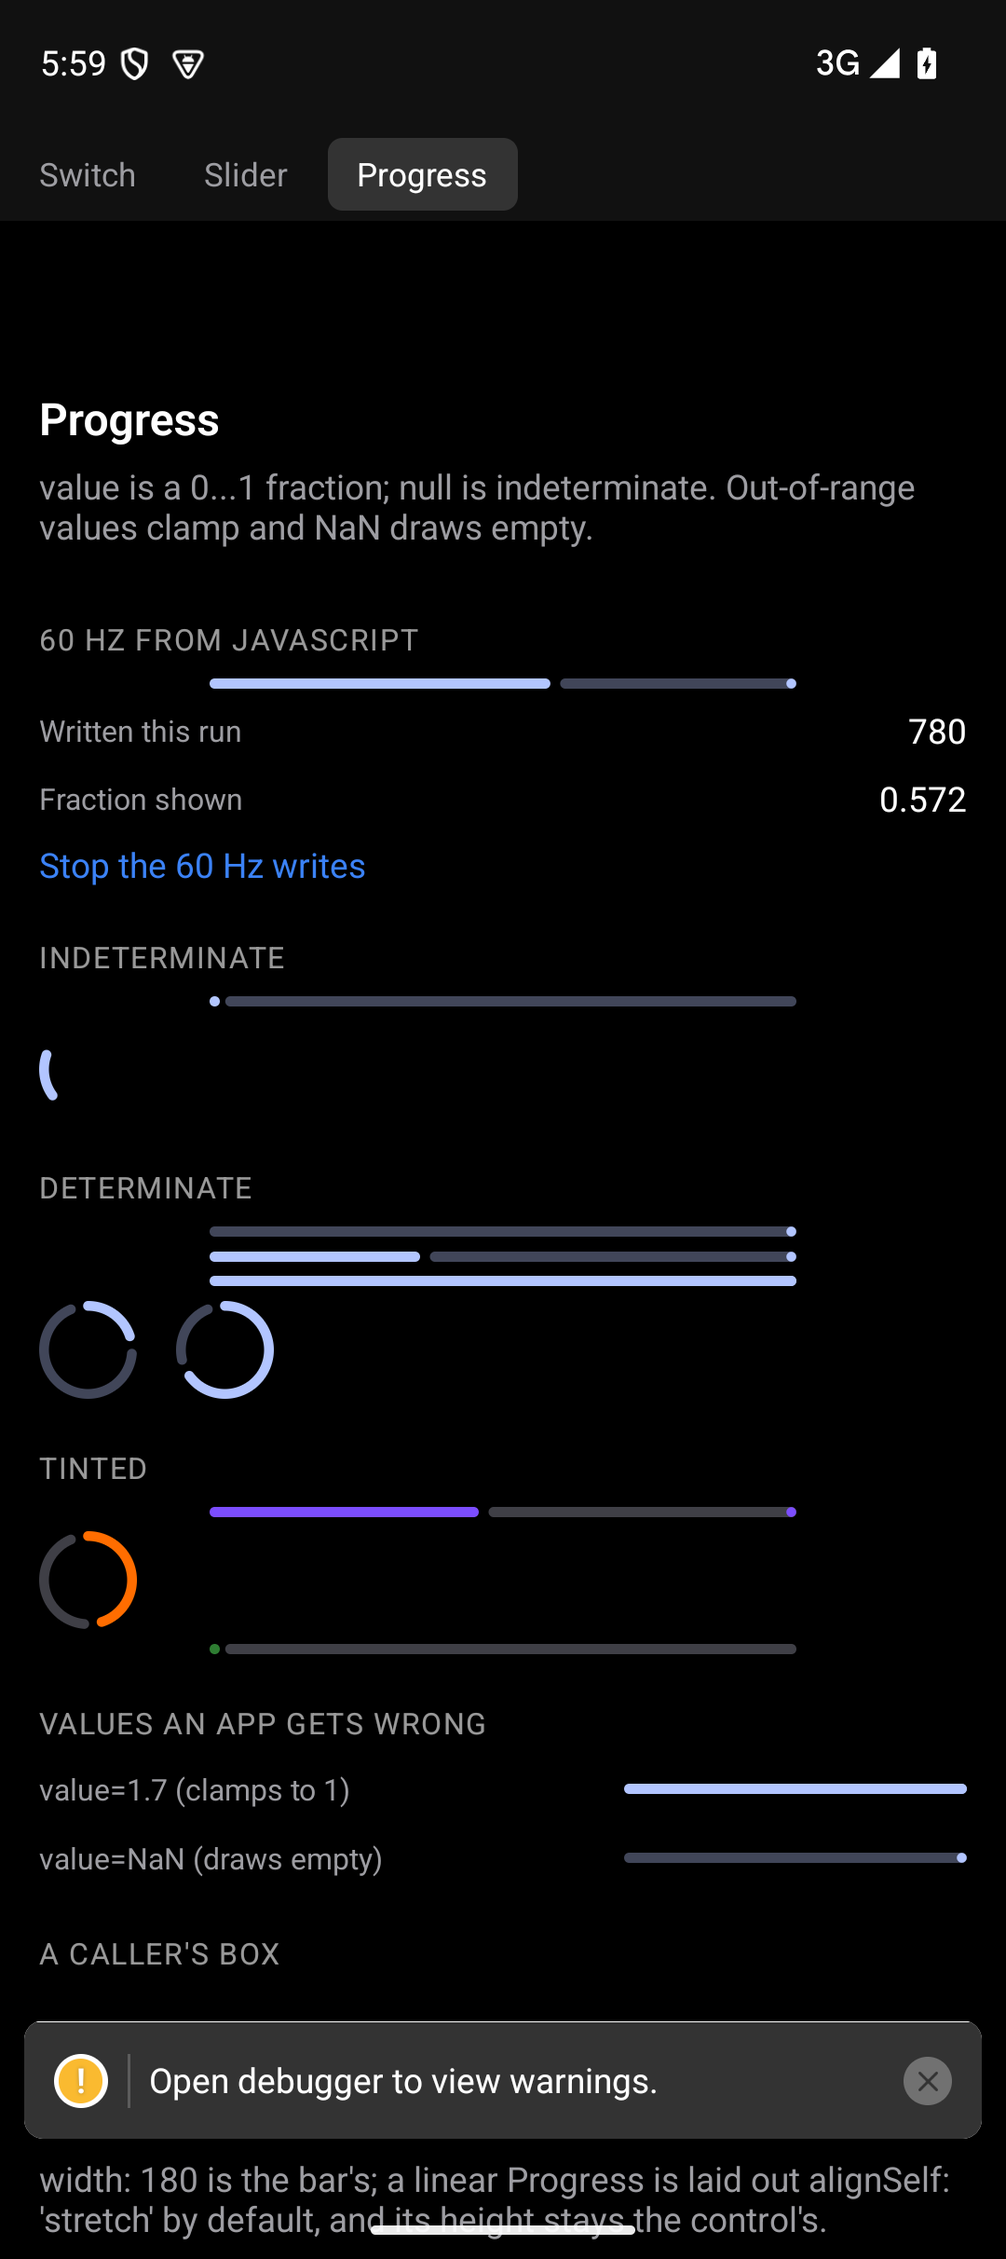
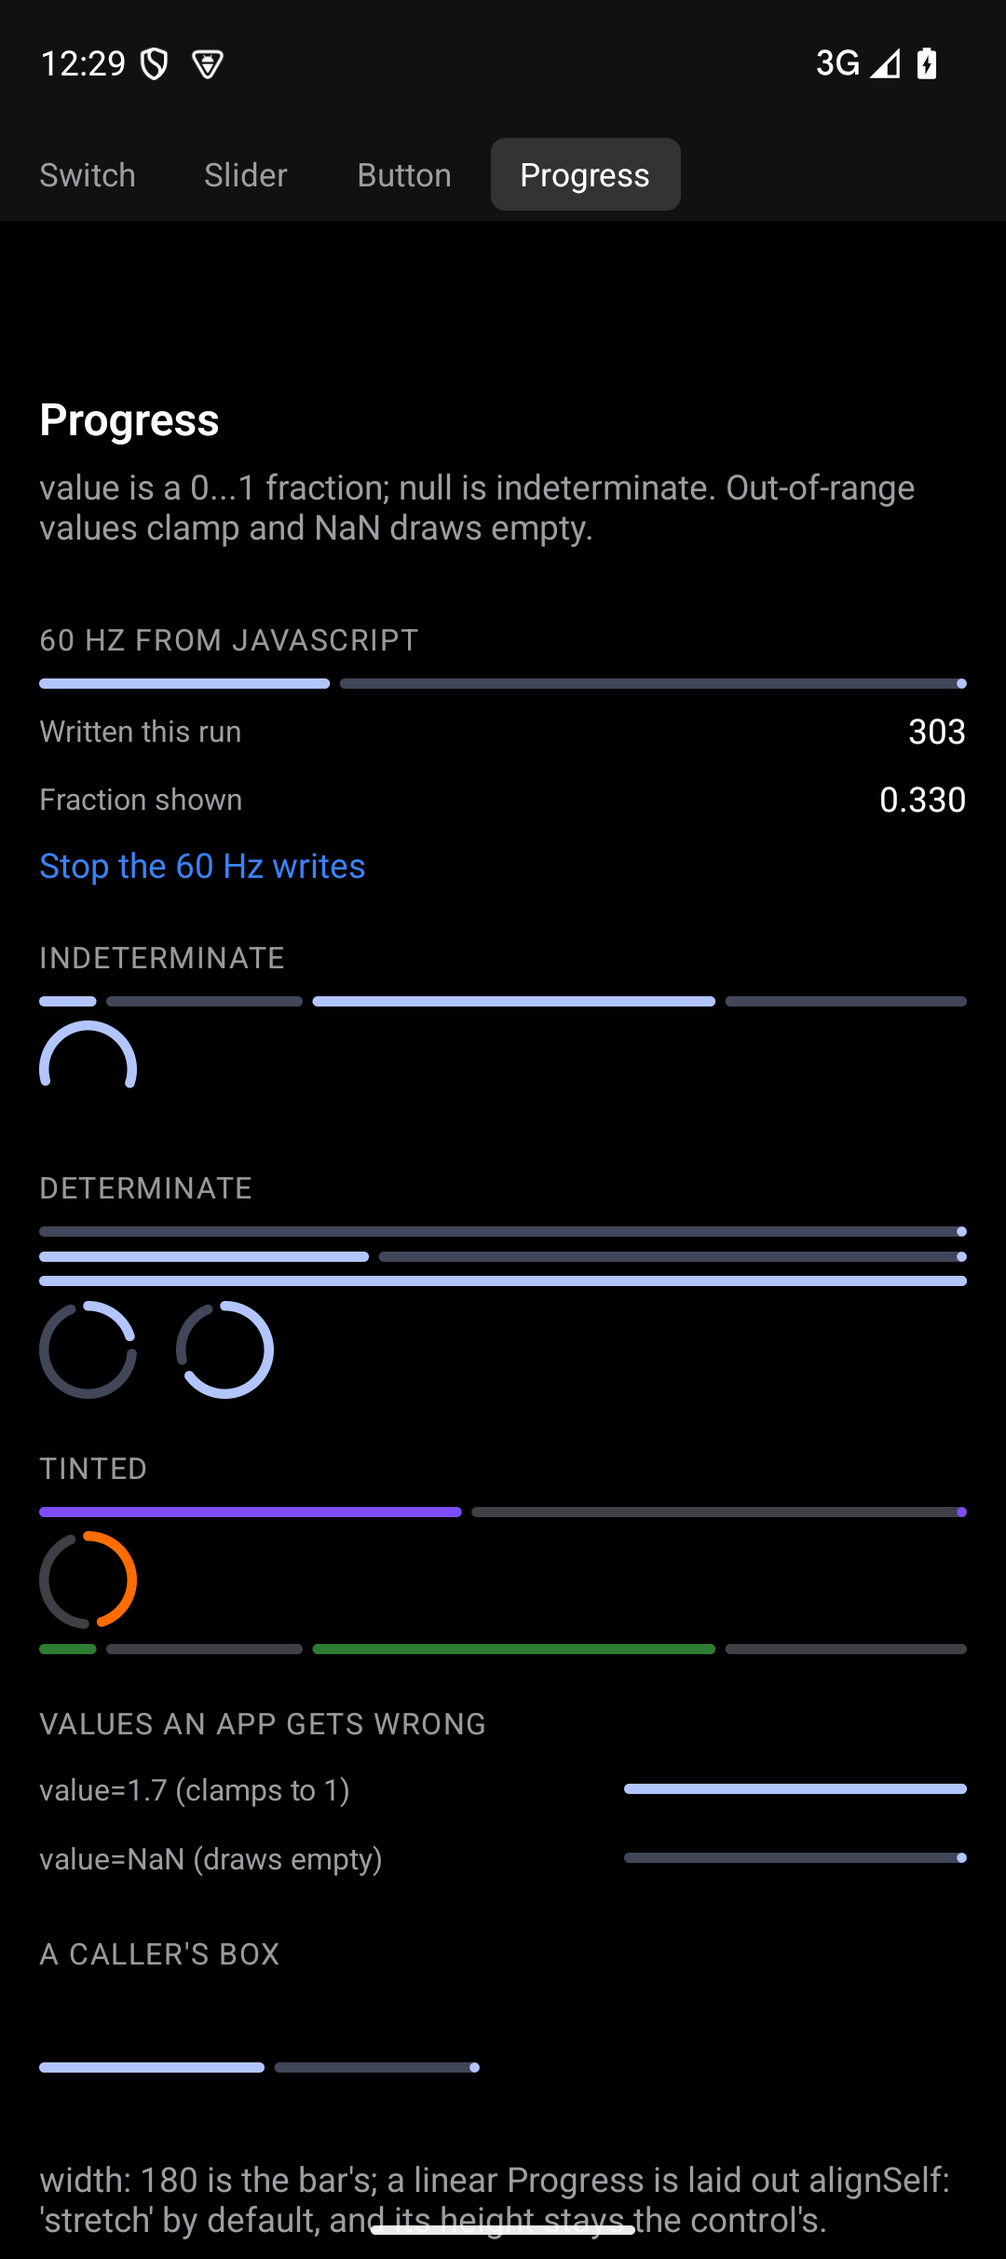
docs(progress): record the iOS limits that were measured, and the fix round (F3, F7)
`docs/components/progress.md`:

- a determinate `circular` indicator does not show its value on iOS - SwiftUI's
  `.circular` `ProgressView` spins whatever fraction it is handed, so the number
  reaches VoiceOver and the handle and not the pixels. `Gauge` with
  `.accessoryCircularCapacity` was built and measured before being rejected: 58 pt
  against this control's 20 pt / 40 dp, plus an iOS 16 floor against a 15.1 target.
- an indeterminate `linear` bar on iOS shows an empty track and does not move,
  measured rather than inferred (three screenshots 600 ms apart; the bar's rows are
  byte-identical while the ring below them differs).
- the off-window gate is only *visible* on a linear bar, and `nuiTestIsAnimating()`
  reports what the drawing was handed - on iOS that can disagree with the pixels in
  either direction. The page no longer claims a hidden indicator "costs no frames",
  because nothing measures it here; the test says what it measures instead (F7).

`docs/tasks/G3-progress.report.md` gains a "Fix round 1" section: per-fix outcomes
with the red and green lines behind them, the gates re-run without `HARNESS_TIMING`,
the Android screenshots re-shot for F1, the port-collision run R1's gate refused, and
the review's 13 follow-ups recorded one line each (two of them closed by this round).

diff --git a/docs/tasks/G3-progress.report.md b/docs/tasks/G3-progress.report.md
@@ -27,7 +27,8 @@ Round 1 (implementation). Branch `task/G3-progress`; `main` @ `52823a9` merged i
   reports the gate; `animating` is derived from what the drawing code was handed. On **Android** the
   mirror and the pixels cannot disagree. On iOS a circular `ProgressView` spins whatever it is handed
   — including a determinate fraction — so for that one configuration the mirror reports a rule the
-  pixels do not follow (F3, now documented in the component page).
+  pixels do not follow (F3, now documented in the component page). The disagreement is two-way there:
+  an iOS indeterminate **bar** reports `true` and measures as pixel-still (measured in fix round 1).
 - **Accessibility.** Android publishes `ProgressBarRangeInfo` semantics (the real progressbar role)
   plus the label; iOS has no public progressbar/busy trait, so it sets label + `accessibilityValue`
   (`"0%"`…`"100%"`, `nil` value while indeterminate) — documented in the component page.
@@ -241,3 +242,155 @@ UI CPU and memory.
    (b) raise the ms bars by a factor when `HARNESS_TEST_TIMEOUT` is raised (they already key off
    nothing); (c) move them to a "quiet machine only" tag. I would pick (c) and keep the structural
    gates (`immediate` counts) everywhere.
+
+## Fix round 1 (review F1–F7)
+
+`docs/tasks/G3-progress.review.md` verdict **MERGE-AFTER-SMALL-FIXES** on `7928021`. `main` merged
+in first (FIX2/D20, T15b, and R1 — R1's `expectTimingBudget()` now carries this suite's one
+wall-clock number). All seven findings are addressed: two native-code fixes (F1, F2), one measured
+rejection plus documentation (F3), two report corrections (F4, F7), two test corrections (F5, F6).
+Every claim below is a line from a log, not a recollection.
+
+### F1 — the Android linear bar fills its box now
+
+`android/src/main/java/com/margelo/nitro/nitroui/HybridNitroUiProgress.kt:301` — both
+`LinearProgressIndicator` branches take `semantics.fillMaxWidth()`. M3's own default modifier is
+`size(240.dp, 4.dp)` and the `fillWidth` question forwards `minWidth = 0`, so the indicator measured
+its preferred 240 dp and sat centred in the host's box; under an *unbounded* constraint
+`fillMaxWidth` is a no-op, which is why the intrinsic measurement path is untouched.
+
+- The first Progress test now asserts the **drawn** width, not only Yoga's box:
+  `expect(Math.abs(linearMeasured.width - 300)).toBeLessThan(1)`
+  (`example/__tests__/Progress.harness.tsx:293`).
+- **Red first**, Android: `expected 60 to be less than 1`. iOS was green before the change, exactly
+  as the review predicted — the bug was Android-only, and the old test's two lines (box width,
+  measured *height*) could not see it.
+- Green after: `progress sizes: linearBox=300.19x4.19 linearMeasured=300.19x4.19`.
+- Pixels moved, so `docs/tasks/G3-progress/android-light.png` and `android-dark.png` are re-shot.
+  iOS pixels did not change (F3), so the iOS pair is untouched.
+
+### F2 — each native mount gets its own sizing id
+
+`src/core/useSizingId.ts` now takes the configuration the native view is keyed on and mints a fresh
+id when it changes; `Progress.tsx` passes `variant`. Fabric orders Delete before Create, so the
+dropped view's `forget(id)` was erasing the ledger entry the new mount had just filed, and a
+configuration that was not already exact in the cache never got corrected.
+
+- New test `re-measures a variant change that starts from a poisoned guess`: seed `137x23` on the
+  circular key, invalidate the environment, mount a linear bar, `rerender` it circular, then poll
+  until the box equals `measureContent()`. The handle map is cleared before the rerender so the poll
+  cannot answer with the view that is going away.
+- **Red on both platforms** — Android `box=137.14x23.24 measured=40.00x40.00`, iOS
+  `box=137.00x23.00 measured=20.00x20.00`. The ring stayed in the poisoned guess. The brief's
+  "if it is green today on both platforms, drop the code change" therefore does not apply: the fix
+  stays, next to the test.
+- Green after: `variant poison: linear=300.19x4.19 box=40.00x40.00 measured=40.00x40.00 guess=137x23`.
+- This is a shared-core fix, not a Progress fix: any component that remounts its native view on a
+  prop needs the same argument. Noted below, outside the review's 13.
+
+### F3 — iOS draws a determinate ring as a spinner: tried, measured, documented
+
+`Gauge(value:in:)` + `.gaugeStyle(.accessoryCircularCapacity)` behind `if #available(iOS 16.0, *)`
+builds and runs — and was measured before being rejected. It lays out a **58 pt** circle where this
+control's rings are **20 pt on iOS / 40 dp on Android**, so four Progress tests went red
+(`expected 38 to be less than 1`): a ring that resizes the moment a value arrives is the box-moving
+D20 exists to prevent, and iOS 16 sits above this library's 15.1 floor. `ios/components/Progress/HybridNitroUiProgress.swift`
+is **unchanged**; a custom `ProgressViewStyle` stays a reviewer's decision.
+
+Documented instead, in `docs/components/progress.md` (API table, mapping table, gate section,
+Limits) and in both `value` JSDocs:
+
+- a `circular` indicator does not draw its value on iOS — the fraction reaches VoiceOver and the
+  handle, not the pixels;
+- the off-window gate swap is only *visible* on a linear bar, so for a ring it stops work without
+  changing a pixel;
+- the mirror reports what the drawing was handed, and on iOS that can disagree with the pixels;
+- **measured**, not inferred: an iOS indeterminate `linear` bar shows an empty track and does not
+  move. Rows 1024–1046 of three simulator screenshots taken 600 ms apart are byte-identical, while
+  the rows of the indeterminate ring directly below them differ in the same frames — so the method
+  detects motion where there is some. The likely cause is the same fight the thickness limit
+  describes: our bar is 4 pt tall and `UIProgressView`'s indeterminate stripes want more.
+- the report's Summary sentences about the mirror and the gate are corrected above.
+
+### F4 / F7 — report and page corrections
+
+- The Android update **"0.09×"** is retracted: the expo arm writes a shared-object state, still
+  declares `mountSignal: true`, and so waits out `awaitMountNs` + `awaitPresentedNs` **inside** the
+  CPU bracket (`missingMount=80` in both cells), while the two arms also draw different controls.
+  The Android update cells are not comparable and no factor is quoted for them.
+- Run A's iOS `mounted` **verdict** is retracted: that cell carries `presentedBeforeMount=25`, and
+  `mounted` is not a D15 target metric.
+- `mounts many instances at once` mounts **40** instances, not 200.
+- The memory explanation no longer bills "the window observer per control" to Android — Android has
+  no observer. 130.9 KiB/instance is the library's existing per-host floor (Switch measured
+  128.9–134.2 KiB in T12); a zero-frame `UIView` is ≈1 KiB, not 45.
+- `progress.md` no longer says "a hidden or pooled indicator costs no frames". The test measures
+  that the flag closes on drop and on recycle; the CPU measurement is follow-up 4 below.
+
+### F5 / F6 — test corrections
+
+- `commits once per update at 60 Hz` settles (500 ms) after the 20th write and asserts
+  `toBe(updates)` instead of `>=`. Red proof, JS-only mutation (a wrapper effect that re-sent a
+  changed internal prop once per update): `expected 40 to be 20` on **both** platforms. The mutation
+  is not in the tree.
+- The `beforeAll` warm-up is gone and the first test carries its own `{ timeout: 20000 }`, the way
+  `mounts many instances at once` does. That warm-up is also why F2 survived a round: it made the
+  circular configuration an exact cache hit before any test could see the missing correction.
+- R1 integration: the 40-instance duration now goes through `expectTimingBudget()`, so it is
+  reported on every run and judged only under `HARNESS_TIMING=1` — e.g. `timing: Progress stress:
+  mount 40 instances 83.9ms (limit 10000ms) - reported, not gated`. Both full suites below ran
+  **without** `HARNESS_TIMING`.
+
+### Gates (fix round 1)
+
+| Gate | Result |
+| ---- | ------ |
+| `bun run check` | exit 0 — jest 118/118, `test:native`, `perf:renders`, nitrogen/autolinking/`bob build`/api-extractor/publint, manifest 290 files |
+| iOS full suite, no `HARNESS_TIMING` | 6 suites, 85/85, 44.8 s |
+| Android full suite, no `HARNESS_TIMING` | 6 suites, 85/85, 45.2 s |
+| Progress suite alone | 13/13 on both platforms |
+| Android JVM tests (Kotlin changed) | BUILD SUCCESSFUL |
+| Screenshots | Android light + dark re-shot (F1); iOS unchanged (no pixel change) |
+
+One Android run went red before that green one, and **R1's new gate is what caught it**: my Metro
+was still on 8293, the harness auto-shifted to 8294, and the run refused with *"state.json was
+published for Metro port 8293, not this run's 8294 — an earlier run left it behind. Fix the run
+rather than removing the assertion."* The stale Metro went away and the rerun is green; the five
+collateral failures were mine, not the tree's.
+
+Bonus, no code change: the LogBox toast the review saw in the screenshots is the example app's own
+`SafeAreaView has been deprecated and will be removed in a future release` warning (visible in
+logcat at app start). That answers follow-up 12; the example app still needs the fix.
+
+### The review's 13 follow-ups — recorded here, not fixed
+
+1. Bench: give `update.progress:expo-ui-*` on Android `mountSignal: false` (or give the expo arm a
+   probe-visible signal) and re-run, so the update CPU bracket is not padded by two probe timeouts.
+2. iOS: a determinate circular ring — a custom `ProgressViewStyle`, since `Gauge` measures 58 pt here
+   — if the value ever has to be visible.
+3. Harness: a detach-without-drop and re-attach test for the animation gate (`removeClippedSubviews`
+   or a screen detach), on both platforms.
+4. Measure UI-thread CPU with N hidden indeterminate indicators on both platforms — the brief's CPU
+   check, still unmeasured (see F7).
+5. iOS: have the window observer call `refreshAnimationReport()` so the mirror does not depend on an
+   off-window body re-run.
+6. D20 cost of a cold-corrected ring at 60 Hz: declare per-configuration fallbacks, or document
+   `prewarm` with the `'circular'` key (today a cold ring is `answerChanged` for life).
+7. Android: read `model.value` inside the `progress` lambda (draw phase) and hoist the semantics
+   modifier, so a 60 Hz write skips recomposition and allocates nothing.
+8. iOS: cache the SwiftUI `Color` for the tint in the setter instead of building `Color(UIColor)` on
+   every body run.
+9. iOS: a fresh indeterminate mount draws one empty-determinate frame before `didMoveToWindow` flips
+   `inWindow` — check whether that frame is visible.
+10. `mounts many instances at once`: move the 10 s wall-clock bar behind `HARNESS_TIMING` — **closed
+    by this round**, which merged R1 and routed the number through `expectTimingBudget()`.
+11. `bench/src/implementations/shared.ts:22` says SwiftUI's circular is 32 pt; the docs and the
+    harness measure 20 pt. Reconcile.
+12. Identify the LogBox toast in the example screenshots — **answered by this round** (the example's
+    `SafeAreaView` deprecation warning); the warning itself is still there.
+13. Carry over from round 0: mint a quiet-machine `progress` baseline, and add a render-check control
+    kind to the real-input runner.
+
+One more, outside the 13, because F2's fix is in shared core: now that `useSizingId(configuration?)`
+exists, Switch, Slider and Button deserve an audit for any prop that remounts their native view —
+none is known to today, and none of their tests poisons a cache across such a change.

diff --git a/docs/components/progress.md b/docs/components/progress.md
@@ -31,7 +31,7 @@ second component to add:
 | Prop                 | Type                          | Default  | Maps to                                                        |
 | -------------------- | ----------------------------- | -------- | -------------------------------------------------------------- |
 | `variant`            | `'linear' \| 'circular'`      | `'linear'` | SwiftUI `.progressViewStyle()` / which M3 composable is built.  |
-| `value`              | `number \| null \| undefined` | `null`   | The fraction shown, `0…1`. `null`/`undefined` = **indeterminate**. |
+| `value`              | `number \| null \| undefined` | `null`   | The fraction shown, `0…1`. `null`/`undefined` = **indeterminate**. On iOS a **circular** indicator does not draw it — see Limits. |
 | `tintColor`          | `ColorValue \| undefined`     | platform | SwiftUI `.tint()` / M3 `color`.                                 |
 | `trackColor`         | `ColorValue \| undefined`     | platform | M3 `trackColor`. **Android only today** — see Limits.            |
 | `style`              | `ViewStyle`                   | —        | Overrides the default box (see Sizing).                          |
@@ -59,8 +59,8 @@ notes), so a flag would have nothing to switch.
 | ----------------- | -------------------------------------------------------------- | ---------------------------------------------------------------- |
 | Control           | `ProgressView(value:)` + `.progressViewStyle(.linear/.circular)` | `LinearProgressIndicator` / `CircularProgressIndicator` (M3)      |
 | Host              | `UIHostingController` inside `NitroSwiftUIHost`                 | `NitroComposeHost<M>: AbstractComposeView`                        |
-| Indeterminate     | `ProgressView()` with no value                                  | the overload without `progress`                                   |
-| Determinate value | the `Double`, clamped at the draw site                          | `progress = { Float }` lambda, read by M3's own composition        |
+| Indeterminate     | `ProgressView()` with no value — a **bar** stays an empty track (Limits) | the overload without `progress`                                   |
+| Determinate value | the `Double`, clamped at the draw site — **drawn by the bar only**; a ring keeps spinning (Limits) | `progress = { Float }` lambda, read by M3's own composition        |
 | Indicator colour  | `.tint(_:)`                                                     | `color:` (`ProgressIndicatorDefaults.*Color` when untinted)        |
 | Track colour      | **nothing addresses the track**                                 | `trackColor:` (`…linearTrackColor` / `…circular*TrackColor`)       |
 | Value animation   | the toolkit's; ours is "draw what arrived"                      | M3 draws the lambda's value; it does not interpolate               |
@@ -143,14 +143,28 @@ forever, so both platforms gate it on window membership:
 - iOS: a zero-size sibling observer (`NitroUiProgressWindowObserver`) reports
   `didMoveToWindow`; off-window the model draws an **empty determinate**
   indicator in the same style — same style so the measured size does not move,
-  empty because that is the one determinate state that needs no motion.
+  empty because that is the one determinate state that needs no motion. That
+  swap is only *visible* on a **linear** bar: the circular style looks the same
+  with a value and without one (Limits), so for a ring the gate stops work
+  without changing a pixel.
 - Android: the same rule on the same flag, driven by the host's attach/detach
   callbacks, plus the recycle path.
 
 `nuiTestIsAnimating()` is the shared invariant the harness asserts: *indeterminate
-and on screen*. Recycling and `onDropView` reset the flag, so a hidden or pooled
-indicator costs no frames (the harness test is
-`animates while it is on screen and stops when it is gone`).
+and on screen*. What the test
+(`animates while it is on screen and stops when it is gone`) measures is that the
+flag closes: it is `false` for a control whose view has been dropped, and false
+again after a recycle. Whether a screen full of hidden indicators then costs fewer
+frames is a CPU claim nobody has measured on this repo, so this page does not make
+it — the mechanism (an off-window control is composed as determinate, so M3's
+`rememberInfiniteTransition` leaves the composition) is the argument, and the
+measurement is a follow-up.
+
+The flag is *what the view was asked to do*, which on Android is what the pixels
+do and on iOS is not always: SwiftUI ignores it in both directions, once for each
+kind of circular/linear limit above. A determinate ring reports `false` and spins
+anyway; an indeterminate bar reports `true` and does not move (next bullet). The
+harness asserts the flag, never the motion, and no test here watches pixels move.
 
 ### What we do not do
 
@@ -190,6 +204,31 @@ that says so.
   on iOS the prop is accepted, stored, round-trips through the handle and paints
   nothing. It is a prop on both platforms anyway so the JS API means one thing
   rather than two.
+- **A determinate `circular` indicator does not show its value on iOS.** SwiftUI's
+  `.circular` `ProgressView` keeps spinning whatever fraction it is handed, so on
+  iOS `variant="circular"` with a `value` looks exactly like the indeterminate
+  ring: the number reaches VoiceOver (`accessibilityValue`) and the handle, not the
+  pixels. Android does draw it — Material 3 has a determinate
+  `CircularProgressIndicator`. This is a SwiftUI surface limit, not a plumbing bug:
+  `value` arrives, is clamped, and is handed to the view.
+  - `Gauge(value:in:)` with `.gaugeStyle(.accessoryCircularCapacity)` (the platform's
+    own determinate ring) was built and measured here, and rejected on the numbers:
+    it lays out a **58 pt** circle where this control's rings are 20 pt on iOS and
+    40 dp on Android, so a ring would resize the moment a value arrived — the exact
+    box-moving behaviour `docs/architecture/sizing.md` §5 and DECISIONS D20 exist to
+    prevent — and it needs iOS 16 while this library builds for 15.1. Forcing it back
+    to 20 pt costs the `frame()`/`controlSize` tricks the next bullet rules out.
+  - What is left is our own drawing: a `ProgressViewStyle` or an arc we render. That
+    buys a real determinate ring at the price of "the drawing is the platform's", so
+    it is a decision for a reviewer, not a fix for a fix round.
+- **On iOS an indeterminate `linear` bar shows an empty track and does not
+  visibly animate.** It is pixel-identical to the same bar at `value={0}`: rows
+  `1024`–`1046` of three simulator screenshots taken 600 ms apart are
+  byte-identical, while the rows of the ring below them differ — so this is
+  measured, not inferred. The likely cause is the same fight the next bullet
+  describes: our bar is 4 pt tall, and `UIProgressView`'s indeterminate stripes
+  need more height than that to draw. Use a ring (or a `linear` bar on Android)
+  where indeterminate motion carries meaning.
 - **No size or thickness control.** Neither toolkit lets us set a
   `ProgressView`'s thickness or ring diameter through an API we consider stable
   (`controlSize` and `frame()` fight the control's own measurement here), so the
